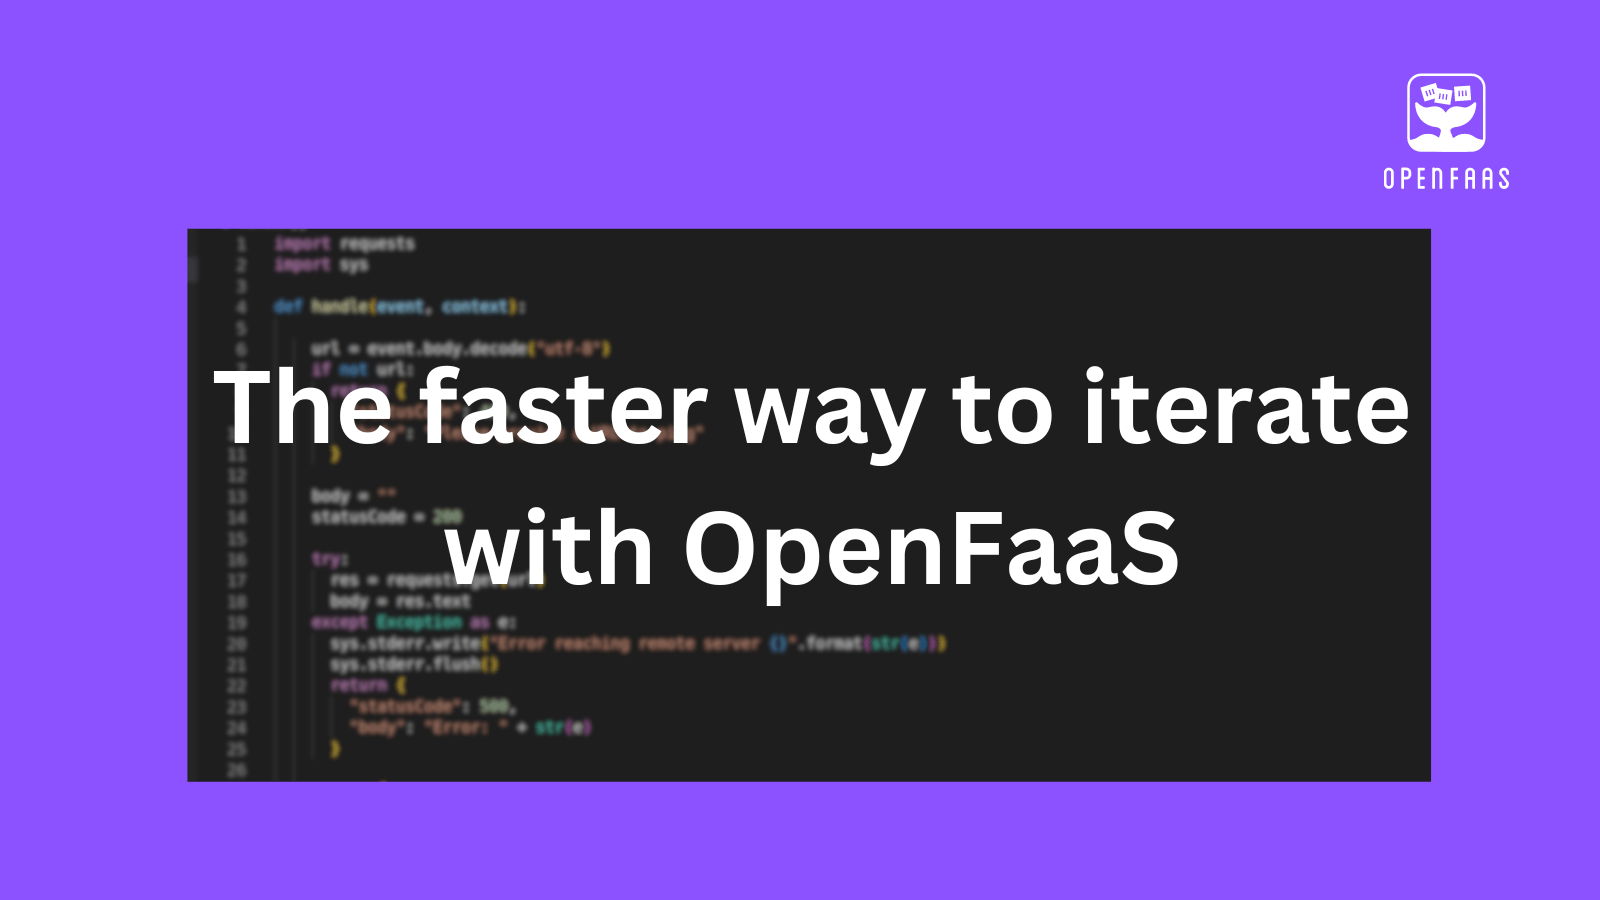
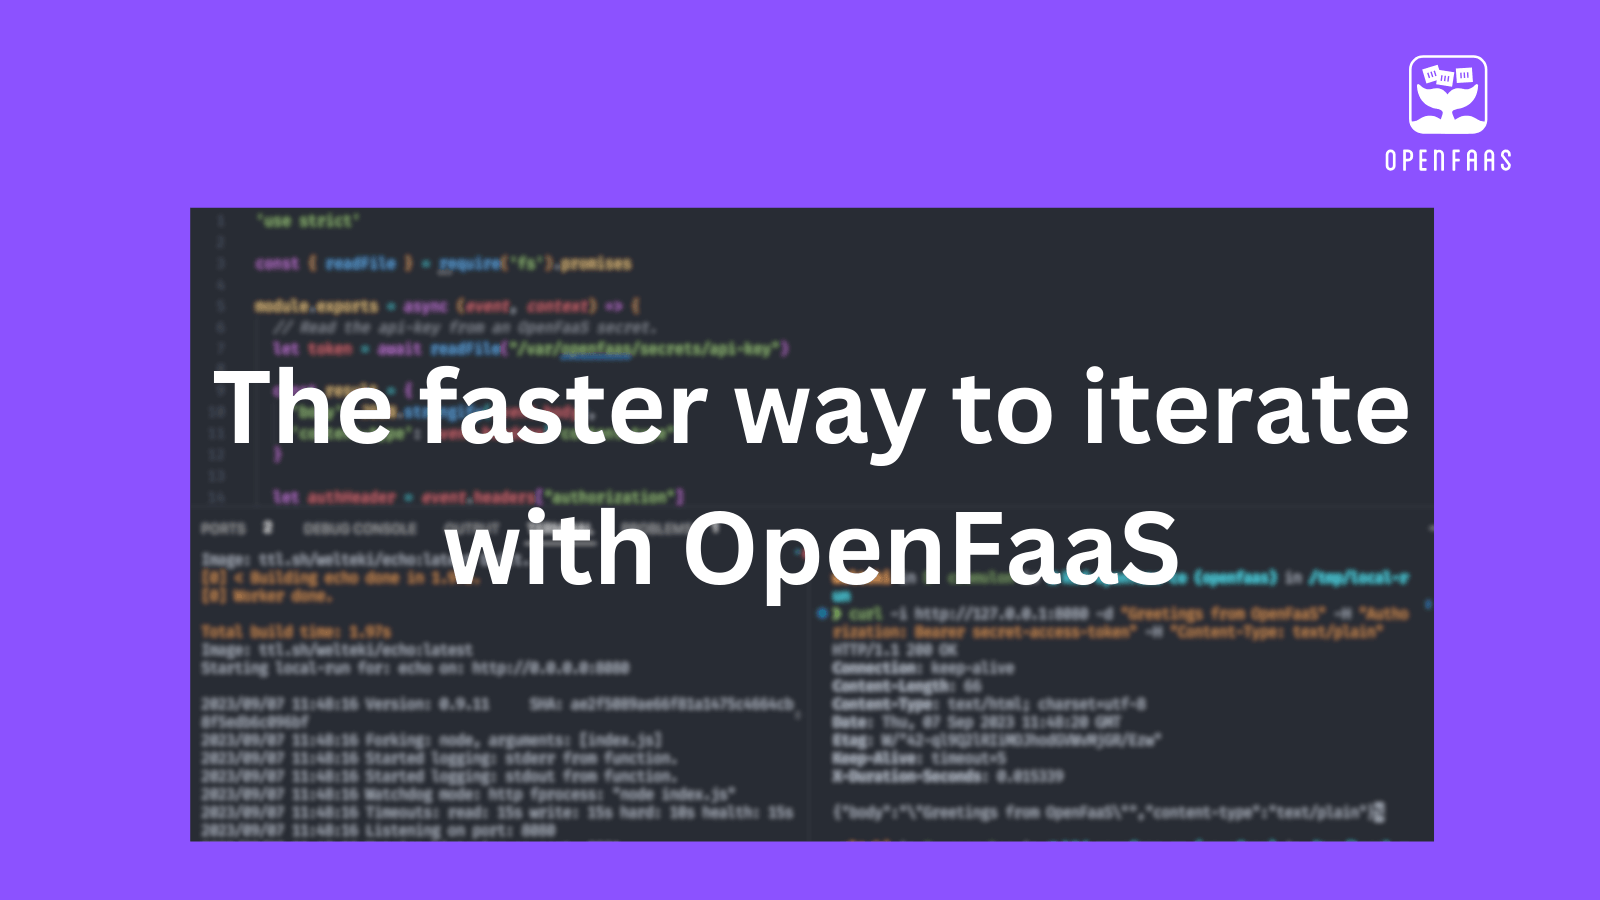
Address review comments on local-run post

Changed region(s): [[0.0938, 0.0622, 0.9375, 0.9333]]

diff --git a/_posts/2023-09-07-develop-functions-locally.md b/_posts/2023-09-07-develop-functions-locally.md
@@ -1,6 +1,6 @@
 ---
 title: "The faster way to iterate on your OpenFaaS functions"
-description: "Learn how the local-run and watch features of faas-cli can help you iterate on functions faster."
+description: "Learn how live reloading and local testing can help you iterate on functions faster with faas-cli."
 date: 2023-09-07
 categories:
 - faas-cli
@@ -13,24 +13,26 @@ image: "/images/2023-09-develop-functions-locally/background.png"
 hide_header_image: true
 ---
 
-Learn how the local-run and watch features of faas-cli can help you iterate on functions faster.
+Learn how live reloading and local testing can help you iterate on functions faster with faas-cli.
+
+We'll start by showing how testing functions on your own machine can help you iterate much more quickly than deploying each change to Kubernetes. That's where `faas-cli local-run` comes in. Then, we'll show the new `--watch` functionality in `faas-cli up`, for when it makes more sense to test and iterate within a cluster due to dependencies on other services.
 
 This is what the typical development lifecycle of an OpenFaaS function looks like:
 
-- Make code changes
-- Build the function image
-- Push the image to a container registry
-- Deploy the function
+- Make code changes.
+- Publish a new container image.
+- Deploy the function.
+- Wait for the new image to be pulled and become ready.
 
-The faas-cli tries to minimize the amount of manual steps by bundling some of these actions into a single command. For example, running `faas-cli up` will build, push and deploy functions.
+We try to minimise the amount of manual steps by bundling some of these actions into a single command. For example, running `faas-cli up` will build, push and deploy functions.
 
 The disadvantage of this workflow is that it can introduce some delay as you will have to wait for the function image to be pushed to a registry, pulled into a node and started up each time you make changes to your code. 
 
 Thanks to some recent work from the community a couple of new features were added to the faas-cli to further improve the development experience.
 
-A new command, `faas-cli local-run` was added. The command runs a function as a docker container directly on your machine. Since the function spins up pretty much instantly this allows you to test your function locally while quickly iterating over your code.
+For fast local iteration on functions, a new command `faas-cli local-run` was added. The command runs a function as a Docker container directly on your machine that spins up pretty much instantly. You won't have to wait for the function to be deployed to OpenFaaS and become ready before you can invoke it.
 
-A second feature is the addition of the `--watch` flag that can be used with both the `faas-cli up` as well as the `faas-cli local-run` command. It will automatically build and redeploy your functions as you edit and save your code.
+A second new feature is the addition of the `--watch` flag. It can be used with both the `faas-cli up` as well as the `faas-cli local-run` command and tells the CLI to watch the filesystem so it can automatically build and redeploy functions as you edit and save your code.
 
 ## Run functions locally
 
@@ -142,7 +144,7 @@ faas-cli new greeter --lang node18 --append stack.yml
 faas-cli local-run greeter
 ```
 
-Since functions are running as an individual docker container with local-run you can not talk to other functions or the OpenFaaS gateway.
+Since functions are running as an individual Docker container with local-run you can not talk to other functions or the OpenFaaS gateway.
 
 If you are building function pipelines where you need to talk to other functions or if you need to call other services in your cluster, local-run might not be the best option.
 
@@ -178,10 +180,10 @@ Create the `.secrets` folder in your local directory and add a file named api-ke
 
 ```bash
 mkdir .secrets
-echo "secret-acces-token" > .secrets/api-key
+echo "secret-access-token" > .secrets/api-key
 ```
 
-Update the echo function to read the secret file from `/var/openfaas/secrets/api-key` and add the secret value to the response:
+We will use the secret to add authorization to the echo function. Update `./echo/handler.js` to read the secret file from `/var/openfaas/secrets/api-key` and validate the Authorization header against the api-key:
 
 ```js
 'use strict'
@@ -189,12 +191,32 @@ Update the echo function to read the secret file from `/var/openfaas/secrets/api
 const { readFile } = require('fs').promises
 
 module.exports = async (event, context) => {
+  // Read the api-key from an OpenFaaS secret.
   let token = await readFile("/var/openfaas/secrets/api-key", )
 
   const result = {
     'body': JSON.stringify(event.body),
-    'api-key': token.toString(),
     'content-type': event.headers["content-type"]
+  }
+  
+  let authHeader = event.headers["authorization"]
+  let authToken = ""
+
+  // Get the bearer token from the authorization header.
+  if (authHeader.startsWith("Bearer ")){
+    let parts = authToken.Split(" ")
+    authToken = parts[1]
+  } else {
+    return context
+      .status(400)
+      .succeed("Invalid authorization header")
+  }
+
+  // Verify bearer token matches the api-key.
+  if (authToken != token) {
+    return context
+      .status(401)
+      .succeed("Invalid api key")
   }
 
   return context
@@ -203,7 +225,7 @@ module.exports = async (event, context) => {
 }
 ```
 
-Run the function with local-run and see that the secret is mounted in the container and can be read for use within the function.
+Run the function with local-run and see that the secret is mounted in the container and can be read for use within the function. A HTTP 401 status code should be returned if you invoke the function with an invalid api-key.
 
 Run the echo function:
 
@@ -211,68 +233,121 @@ Run the echo function:
 faas-cli local-run echo
 ```
 
-Invoke the function with curl and inspect the response:
+Invoke the function with in invalid api-key:
 
 ```bash
 $ curl -s http://127.0.0.1:8080 \
+  -H "Authorization: Bearer invalid"
   -H "Content-Type: text/plain" \
-  -d "Greetings from OpenFaaS" | jq
+  -d "Greetings from OpenFaaS"
 
-{
-  "body": "\"Greetings from OpenFaaS\"",
-  "api-key": "secret-access-token",
-  "content-type": "text/plain"
-}
+HTTP/1.1 401 Unauthorized
+Connection: keep-alive
+Content-Length: 15
+Content-Type: text/html; charset=utf-8
+Date: Thu, 07 Sep 2023 11:20:50 GMT
+Etag: W/"f-DQI+tV0HvT0NM/9khJk6PQXU+K4"
+Keep-Alive: timeout=5
+X-Duration-Seconds: 0.003185
+
+Invalid api key%
 ```
 
-You should see that the api-key secret is included in the JSON response.
+Invoking the function with the correct api-key that we saved in the secret should return a HTTP 200 status code.
 
-## Watch for changes
+```bash
+$ curl -s http://127.0.0.1:8080 \
+  -H "Authorization: Bearer secret-access-token"
+  -H "Content-Type: text/plain" \
+  -d "Greetings from OpenFaaS"
 
-Another way to quickly iterate on function during development is by using the built in watch functionality of the CLI.
+HTTP/1.1 200 OK
+Connection: keep-alive
+Content-Length: 66
+Content-Type: text/html; charset=utf-8
+Date: Thu, 07 Sep 2023 11:15:30 GMT
+Etag: W/"42-ql9Q2lRIiMOJhodGVWvMjGR/Ezw"
+Keep-Alive: timeout=5
+X-Duration-Seconds: 0.004418
 
-The `--watch` flag can be used with both the `local-run` and `up` command. Adding the flag will tell the cli to watch for any changes to the function source files and automatically re-build and deploy functions on save.
+{"body":"\"Greetings from OpenFaaS\"","content-type":"text/plain"}%
+```
 
-## Automatic tagging of function images
+## Automatic rebuilds by watching the filesystem
 
-All OpenFaaS functions are built into immutable docker images. By default if no image tag is included for a function in the stack.yml file the `:latest` tag is used. When iterating over function and pushing them to an image registry it is a best practice to organise different image versions using tags instead of always pushing to `:latest`.
+Another feature that can be helpful to iterate on functions quickly during development is the built in watch functionality of the CLI.
+
+The `--watch` flag can be used with both the `local-run` and `up` command. Adding the flag will tell the cli to watch the filesystem for any changes to the function source files and automatically re-build and deploy functions on save.
+
+When using `--watch` flag with `faas-cli up` it is recommended to also set `--tag=digest`. This ensures unique image tags are generated for each build. The next section goes into more detail about the `--tag` flag.
+
+## Generated image tags
+
+All OpenFaaS functions are built into container images. By default if no image tag is included for a function in the stack.yml file the `:latest` tag is used. When iterating over functions and pushing them to an image registry it is a best practice to organise different image versions using tags instead of always pushing to `:latest`.
 
 There are two options to set tags for function images.
 
-1. Set the image tag in the stack.yml file
-    
-    ```
-    image: my-fn:0.1.0
-    ```
+1. Let the faas-cli generate the tag automatically.
+2. Set the image tag in the stack.yml file.
 
-    [Environment variable substitution](https://docs.openfaas.com/reference/yaml/#yaml-environment-variable-substitution) could be used to configure the tag with environment variables.
+The `--tag` option can be used with the `build`, `push` and `deploy` sub-commands of the faas-cli. If this flag is provided, image tags for functions will automatically be generated based on available metadata. This can be either Git metadata like the commit sha or branch name or digest of the function handler content.
 
-2. Let the faas-cli generate the tag automatically.
+The generated tag is always suffixed to any tag defined in the stack.yml file or `latest` if no tag is defined.
 
-    The `--tag` option can be used with the `build`, `push` and `deploy` sub-commands of the faas-cli. If this flag is provided, image tags for functions will automatically be generated based on available metadata. This can be either Git metadata like the commit sha or branch name or a hash of the digest of the function handler content.
+Some examples:
 
-    Some examples:
+When using the flag `--tag=sha` the image tag used in the stack.yml file is suffixed with the short Git SHA. e.g
 
-    When using the flag `--tag=sha` the image tag used in the stack.yml file is suffixed with the short Git SHA. e.g
+```yaml
+functions:
+  echo:
+    lang: node18
+    handler: ttl.sh/openfaas/echo
+    image: echo:0.2
+```
 
-    ```
-    image: my-fn:0.2 => image: my-fn:0.2-cf59cfc
-    ```
+For this stack.yml file the resulting image name will be `echo:0.2-cf59cfc`
 
-    if not tag is set in the stack.yml file the suffix is appended to latest:
+If no tag is set in the stack.yml file the suffix is appended to latest.
 
-    ```
-    image: my-fn => image: my-fn:latest-cf59cfc
-    ```
+```
+image: echo => image: echo:latest-cf59cfc      
+```
 
-    Our docs have a detailed overview of [all the available tag versions](https://docs.openfaas.com/cli/tags/).
+If you are using `faas-cli up` with the `--watch` flag we recommend also setting `--tag=digest`. The digest is calculated from the function source code and will ensure a unique image tag is generated and pushed for every code change.
 
+> Find an overview of [all the available tag versions](https://docs.openfaas.com/cli/tags/) in the docs.
+
+Alternatively [environment variable substitution](https://docs.openfaas.com/reference/yaml/#yaml-environment-variable-substitution) can be used to set the image.
+
+Here is an example of a stack.yml file:
+
+```yaml
+functions:
+  echo:
+    lang: node18
+    handler: ttl.sh/openfaas/echo
+    image: echo:${FN_VERSION:-latest}
+```
+
+The value of `FN_VERSION` can be set through en environment variable when running commands like `faas-cli up`, `build` or `publish`:
+
+```
+FN_VERSION="0.2" faas-cli build
+```
+
+Environment variable substitution and the `--tag` flag can also be used together.
 
 ## Conclusion
-To quickly run and test individual OpenFaaS functions locally with minimal overhead, use `faas-cli local-run`.
 
-If you are developing a function pipeline where functions need to call one another or if you need to call other services deployed in your cluster you might be better off using `faas-cli up` with the `--watch` flag to automatically redeploy your functions whenever you make changes.
+We set out to show you how the new `local-run` command worked for faster iteration, the `--watch` flag for live-reloading as you edit, and the `--tag=digest` flag to generate dynamic tags as you edit.
 
-For local development you can use a local registry with KinD to save on bandwidth and speed up the development cycle when using `faas-cli up`: [Use a local registry with KinD](https://docs.openfaas.com/tutorials/local-kind-registry/)
+When it comes to iterating on functions, doing a full deployment with faas-cli up is the easiest and most realistic way to test your work, however, faas-cli local-run can speed things 
+up if your function doesn't have a lot of dependencies.
 
-Setting a private registry for your OpenFaaS cluster can help improve the time it takes to push and pull function images and speed up your development cycle: [Private registries](https://docs.openfaas.com/tutorials/local-kind-registry/)
+You may also like:
+
+- [Run a registry on your computer to save on push an pull time](https://docs.openfaas.com/tutorials/local-kind-registry/)
+- [Smart rebuilds and live updates for OpenFaaS functions with Tilt](https://www.openfaas.com/blog/tilt/)
+
+Feel free to tweet to [@openfaas](https://twitter.com/openfaas) with your comments, questions and suggestions.
